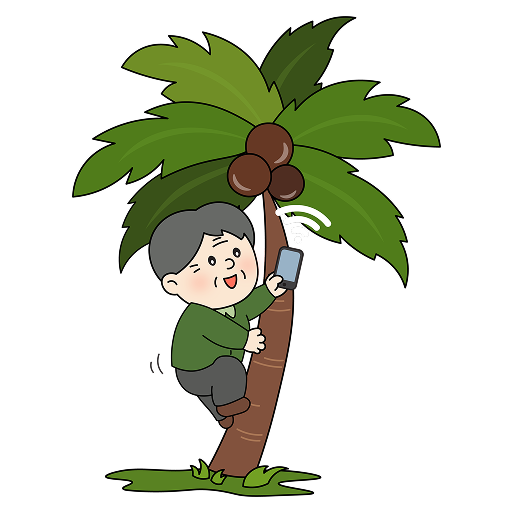
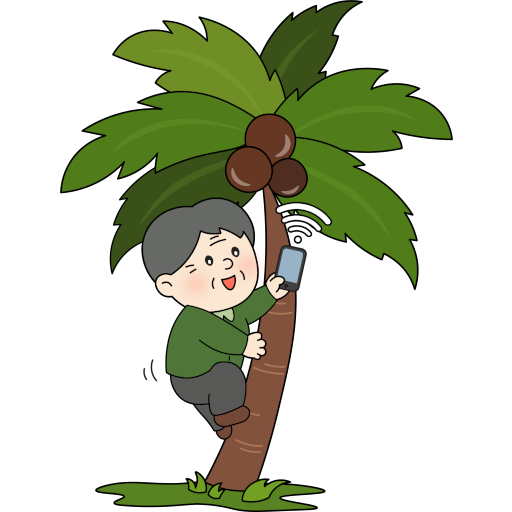
docs: update changelog and user stories for US-E9-13 art refresh in progress; adjust Sprint 10 references

Changed region(s): [[0.0938, 0.0, 0.9062, 1.0]]

diff --git a/docs/agile/user-stories/US-E9-13.md b/docs/agile/user-stories/US-E9-13.md
@@ -1,0 +1,57 @@
+# User Story: US-E9-13 - อัปเดต art ตัวละคร popup อินเทอร์เน็ตหายไปแล้ว
+
+**Status:** 🔵 In Progress (Sprint 10, เริ่ม 2026-07-17 — art กำลังเปลี่ยน)
+**Epic:** [E9: Field Feedback Hotfixes](../01-product-backlog.md)
+**Owner:** [Developer/AI]
+**Source:** Owner request (2026-07-17) — ต่อยอด [US-E7-27](US-E7-27.md)
+**Priority:** 🟠 P1 — UX polish (Sprint 10)
+**Target version:** TBD (bump ตอน ship)
+
+> **ขอบเขต:** เปลี่ยนไฟล์ art ตัวละคร offline popup (`*_internet_loss.png`) ให้เป็นชุดใหม่ — logic popup / `InternetManager` / SW precache จาก US-E7-27 **ไม่เปลี่ยน** ยกเว้นถ้าต้อง bump `CACHE_VERSION` ใน `sw.js` เพื่อบังคับดึงรูปใหม่
+
+---
+
+## 📖 Description
+**ในฐานะ** ผู้เล่นสูงอายุที่เห็น popup "อินเทอร์เน็ตหายไปแล้ว"
+**ฉันต้องการ** ให้ตัวละครคุณตา/คุณยาย (ปีนต้นมะพร้าวหาสัญญาณ) **เป็น art ชุดใหม่ที่อัปเดตแล้ว**
+**เพื่อให้** ภาพสื่อสารชัดและตรงกับชุด character art ปัจจุบัน
+
+---
+
+## 🐛 Problem
+- Art เดิมใน [US-E7-27](US-E7-27.md) (`OldWoman_internet_loss.png` / `OldMan_internet_loss.png`) **กำลังถูกเปลี่ยน** เป็นชุดใหม่
+- ต้อง sync ไฟล์ใน repo + ให้ offline buffer / SW แสดงรูปใหม่ได้หลัง deploy
+
+---
+
+## ✅ Acceptance Criteria
+1. [ ] ไฟล์ art ใหม่แทนที่:
+   - `public/assets/common/character/female/OldWoman_internet_loss.png`
+   - `public/assets/common/character/man/OldMan_internet_loss.png`
+2. [ ] Popup ออฟไลน์แสดงตัวละครตามเพศได้ถูกต้องจาก art ใหม่ (ออนไลน์ + ออฟไลน์ — data URL buffer)
+3. [ ] Service worker / cache ไม่ยึดรูปเก่าค้าง (bump `CACHE_VERSION` ใน `public/sw.js` ถ้าจำเป็น)
+4. [ ] ตำแหน่ง/ขนาดตัวละครใน `.gh-popup--offline` ยังอ่านง่ายบนมือถือ
+5. [ ] Owner ยืนยันบนเครื่องจริง
+
+---
+
+## 🛠 Technical Tasks
+- [ ] **แทนที่ art assets** `OldWoman_internet_loss.png` / `OldMan_internet_loss.png` ด้วยไฟล์ชุดใหม่ *(กำลังทำ)*
+- [ ] ตรวจว่า `offline-popup.js` / `preloadOfflineArt()` ยังโหลด path เดิมได้
+- [ ] Bump `CACHE_VERSION` ใน `public/sw.js` (ถ้า SW precache ยังเสิร์ฟรูปเก่า)
+- [ ] ทดสอบ DevTools offline — popup ขึ้น + รูปใหม่โชว์ทั้งคุณตา/คุณยาย
+- [ ] Owner verify บนมือถือจริง
+
+---
+
+## 🔗 Related Files
+- Art: `public/assets/common/character/female/OldWoman_internet_loss.png`
+- Art: `public/assets/common/character/man/OldMan_internet_loss.png`
+- Popup: `src/ui/offline-popup.js`
+- SW: `public/sw.js`
+- Prior: [US-E7-27](US-E7-27.md)
+- Backlog: [01-product-backlog](../01-product-backlog.md)
+- Sprint: [Sprint 10](../sprint-backlogs/sprint-10.md)
+
+---
+Back to Product Backlog: [Product Backlog](../01-product-backlog.md) | Back to Index: [Index](../../index.md)

diff --git a/docs/agile/user-stories/US-E7-27.md b/docs/agile/user-stories/US-E7-27.md
@@ -43,7 +43,7 @@
 - [x] **buffer art เป็น data URL ในหน่วยความจำตอนออนไลน์** (`preloadOfflineArt()` ใน `offline-popup.js` — fetch→blob→FileReader→dataURL, cache ด้วย `Map`) แล้ว render จาก data URL ตอนออฟไลน์ (ไม่ต้องใช้เน็ตเลย) — `InternetManager.bufferArt()` เรียกตอน `setGender`/`refreshGender`/reconnect วิธีนี้แก้ปัญหารูปไม่ขึ้นได้จริง (SW HTTP cache ไม่น่าเชื่อถือ — คืน 503)
 - [x] (safety net) precache art offline popup ใน service worker (`public/sw.js`, `CACHE_VERSION v2`): cache fallback เมื่อ network fail + precache `*_internet_loss.png`/`*_profile.png`
 - [~] (deferred) ดักความล้มเหลวจากเครือข่ายในชั้นข้อมูล (`src/core/database.js` — Supabase/RPC fetch error) — รอดีไซน์ popup error ก่อน
-- [x] art ตัวละคร (คุณตา/คุณยาย) มีแล้ว: `OldWoman_internet_loss.png` / `OldMan_internet_loss.png` (fallback: `*_profile.png`)
+- [x] art ตัวละคร (คุณตา/คุณยาย) มีแล้ว: `OldWoman_internet_loss.png` / `OldMan_internet_loss.png` (fallback: `*_profile.png`) — *ชุดใหม่กำลังอัปเดตใน [US-E9-13](US-E9-13.md)*
 - [x] จัดตำแหน่งตัวละครให้ชิดด้านบนของ panel ตามดีไซน์ (`.gh-popup--offline .gh-frame-popup-panel__body { align-content: start; }`)
 - [~] ตรวจว่า flow เดิม (toast/retry ของ US-E7-18) ไม่ตีกันกับ popup นี้ — popup นี้ singleton-guard + auto-dismiss แล้ว (toast = ชั่วคราวเล็ก, popup นี้ = บล็อกเมื่อออฟไลน์จริง)
 - [x] ทดสอบ: ปิดเน็ต (DevTools offline) ระหว่างใช้งาน — popup ขึ้น + รูปคุณตา/คุณยายแสดงถูกต้อง — owner ยืนยันแล้ว
@@ -55,6 +55,7 @@
 - Wiring: `src/main.js` (`internetManager.configure({ onReconnect })`, `.start()`, `setGender(patientGender)`)
 - Offline caching: `public/sw.js` (precache offline art + cache fallback on network failure)
 - Art: `public/assets/common/character/{man/OldMan,female/OldWoman}_internet_loss.png`
+- Follow-up art refresh: [US-E9-13](US-E9-13.md) (Sprint 10 — กำลังเปลี่ยนไฟล์ art)
 - Popup base: `src/ui/components/frame-popup.js`, `src/ui/transition/popup-transition.js`, `public/components.css` (`gh-popup--*`, `--popup-*`)
 - Network/data: `src/core/database.js`, `src/main.js`
 - Toast (เทียบเคียง): [US-E7-18](US-E7-18.md) (`src/ui/components/toast.js`)

diff --git a/docs/index.md b/docs/index.md
@@ -22,7 +22,7 @@ MCI Cognitive Games is currently a Phaser 3 + Vite browser application with DOM-
 - **Deployment note:** Test VM and nginx builds must use a branch that includes the leaderboard rewrite fix; older staging builds may still contain stale `topObserver` code.
 
 ### Latest Sprint Planning
-- **[Sprint 10 — Field Feedback carry-over](agile/sprint-backlogs/sprint-10.md) — Active (2026-07-17 → 2026-07-30):** [US-E9-05](agile/user-stories/US-E9-05.md) ✅ Done; [US-E9-07](agile/user-stories/US-E9-07.md) / [US-E9-09](agile/user-stories/US-E9-09.md) Backlog
+- **[Sprint 10 — Field Feedback carry-over](agile/sprint-backlogs/sprint-10.md) — Active (2026-07-17 → 2026-07-30):** [US-E9-13](agile/user-stories/US-E9-13.md) In Progress (internet-loss art); [US-E9-05](agile/user-stories/US-E9-05.md) ✅ Done; [US-E9-07](agile/user-stories/US-E9-07.md) / [US-E9-09](agile/user-stories/US-E9-09.md) Backlog
 - **[Sprint 9 — Field Feedback Hotfix](agile/sprint-backlogs/sprint-09.md) — Completed:** P0 gameplay US-E9-01..04 + device/hub/UX — จาก [Meeting 2026-07-10](agile/meeting-backlogs/2026-07-10.md)
 - **[US-E8-01](agile/user-stories/US-E8-01.md) — ต้นคิดดีหลายชนิดต่อผู้เล่น:** ✅ Done (v1.1.0) — `tree_type` a/b/c/d + lazy backfill
 
@@ -54,7 +54,7 @@ MCI Cognitive Games is currently a Phaser 3 + Vite browser application with DOM-
 - [Kanban Board](agile/kanban.md) - สถานะงานปัจจุบัน
 - [01. Product Backlog](agile/01-product-backlog.md) - รายการฟีเจอร์และ User Stories ทั้งหมด
 - [02. Sprint Roadmap](agile/02-sprint-planning.md) - แผนการดำเนินงานภาพรวมและรายละเอียด Sprint ปัจจุบัน
-- [Sprint 10 Backlog](agile/sprint-backlogs/sprint-10.md) - **Sprint ปัจจุบัน** (US-E9-05 ✅ Done; US-E9-07/09 Backlog)
+- [Sprint 10 Backlog](agile/sprint-backlogs/sprint-10.md) - **Sprint ปัจจุบัน** (US-E9-13 In Progress; US-E9-05 ✅ Done; US-E9-07/09 Backlog)
 - [Sprint 09 Backlog](agile/sprint-backlogs/sprint-09.md) - Completed (Field Feedback Hotfix)
 - [03. Meeting Logs](agile/03-meeting-backlogs.md) - บันทึกการประชุมของทีม
 - [04. Sprint Retrospectives](agile/04-retrospectives-backlog.md) - บันทึกสรุปบทเรียนและแนวทางการปรับปรุงในแต่ละ Sprint

diff --git a/docs/agile/sprint-backlogs/sprint-10.md b/docs/agile/sprint-backlogs/sprint-10.md
@@ -18,6 +18,8 @@ gantt
     Full data export (US-E9-05)      :done, t5, 2026-07-17, 1d
     section P0 — Device perf
     Low-end perf A10s (US-E9-07)     :t7, 2026-07-22, 5d
+    section P1 — Offline art
+    Internet-loss art refresh (US-E9-13) :active, t13, 2026-07-17, 2d
     section P1 — A11y
     System font scale (US-E9-09)     :t9, 2026-07-24, 4d
     section QA
@@ -27,6 +29,11 @@ gantt
 ---
 
 ## 📋 Committed Stories & Tasks
+
+### 🔵 In Progress
+| ID | Story / Task | Priority | สถานะ |
+|----|--------------|----------|--------|
+| [US-E9-13](../user-stories/US-E9-13.md) | อัปเดต art popup อินเทอร์เน็ตหาย — `*_internet_loss.png` | P1 | 🔵 In Progress (art กำลังเปลี่ยน) |
 
 ### ✅ Shipped ใน Sprint 10
 | ID | Story / Task | Priority | สถานะ |
@@ -39,6 +46,7 @@ gantt
 | [US-E9-07](../user-stories/US-E9-07.md) | Optimize สเปคต่ำ — เอฟเฟคเก่งมาก + Phaser (Galaxy A10s) | P0 | 📋 Backlog *(sparkle slice ✅ v1.1.5; confetti + Phaser ค้าง)* |
 | [US-E9-09](../user-stories/US-E9-09.md) | Layout ทนต่อการขยายฟอนต์ระบบ (System Font Scale) | P1 | 📋 Backlog |
 
+> **2026-07-17:** [US-E9-13](../user-stories/US-E9-13.md) → **In Progress** — อัปเดต `*_internet_loss.png`
 > **2026-07-17:** [US-E9-05](../user-stories/US-E9-05.md) ✅ Done (**v1.1.6**) — full data export
 > **2026-07-17:** Sprint 10 kickoff
 > **2026-07-15:** US-E9-07 sparkle slice shipped ใน **v1.1.5** — remainder ค้าง Backlog
@@ -54,12 +62,12 @@ gantt
 - [Sprint 09](sprint-09.md) ✅ **Completed** (2026-07-17) — P0 gameplay [US-E9-01](../user-stories/US-E9-01.md)..[US-E9-04](../user-stories/US-E9-04.md) Done
 - [US-E9-10](../user-stories/US-E9-10.md) ✅ Done ใน Sprint 09 (CLI, ไม่ bump version)
 - **Current shipped:** `1.1.6` (US-E9-05 full data export)
-- **Focus ถัดไป:** US-E9-07 / US-E9-09
+- **Focus รอบนี้:** US-E9-13 (internet-loss art); ถัดไป US-E9-07 / US-E9-09
 
 ---
 
 ## 📊 Sprint Summary
-- **งานที่ commit:** US-E9-05 ✅ Done; US-E9-07/09 Backlog
+- **งานที่ commit:** US-E9-13 In Progress; US-E9-05 ✅ Done; US-E9-07/09 Backlog
 - **สถานะ:** 🟢 **Sprint 10 Open** (US-E9-05 shipped 2026-07-17)
 
 ---

diff --git a/docs/agile/01-product-backlog.md b/docs/agile/01-product-backlog.md
@@ -2,7 +2,7 @@
 
 ---
 
-**Last Updated:** 2026-07-17 | **Release:** [v1.1.6](../changelog.md) — Current | **Current Sprint:** [Sprint 10](./sprint-backlogs/sprint-10.md) (US-E9-05 ✅ Done v1.1.6; US-E9-07/09 Backlog)
+**Last Updated:** 2026-07-17 | **Release:** [v1.1.6](../changelog.md) — Current | **Current Sprint:** [Sprint 10](./sprint-backlogs/sprint-10.md) (US-E9-13 In Progress; US-E9-05 Done; US-E9-07/09 Backlog)
 
 ## 🎯 Product Vision
 
@@ -176,7 +176,8 @@
 | [US-E9-07](./user-stories/US-E9-07.md) | Optimize สเปคต่ำ — เอฟเฟคเก่งมาก + Phaser (Galaxy A10s baseline)                                 | High     | 📋 Backlog                 |
 | [US-E9-09](./user-stories/US-E9-09.md) | Layout ทนต่อการขยายฟอนต์ระบบ (System Font Scale)                                                 | Med      | 📋 Backlog                 |
 
-> ⤷ **Current Sprint:** [Sprint 10](./sprint-backlogs/sprint-10.md) — [US-E9-05](./user-stories/US-E9-05.md) ✅ Done; remaining [US-E9-07](./user-stories/US-E9-07.md), [US-E9-09](./user-stories/US-E9-09.md)
+> ⤷ **Current Sprint:** [Sprint 10](./sprint-backlogs/sprint-10.md) — [US-E9-13](./user-stories/US-E9-13.md) 🔵 In Progress (internet-loss art); [US-E9-05](./user-stories/US-E9-05.md) ✅ Done; [US-E9-07](./user-stories/US-E9-07.md)/[US-E9-09](./user-stories/US-E9-09.md) Backlog
+> ⤷ US-E9-13 ต่อยอด [US-E7-27](./user-stories/US-E7-27.md) — เปลี่ยน `OldWoman_internet_loss.png` / `OldMan_internet_loss.png`
 > ⤷ [US-E9-07](./user-stories/US-E9-07.md) sparkle slice shipped **v1.1.5**; confetti + Phaser remainder ค้าง Backlog
 > ⤷ Epic ยังเป็น E9 (Field Feedback); แยกตารางตาม sprint เพื่อติดตามงานที่ carry-over
 > ⤷ US-E8-01 → [Sprint 08](./sprint-backlogs/sprint-08.md); US-E7-* → [Sprint 07](./sprint-backlogs/sprint-07.md)

diff --git a/docs/changelog.md b/docs/changelog.md
@@ -58,6 +58,13 @@ The `package.json` previously held an arbitrary `1.4.0` that never corresponded 
 
 > The dates and groupings are reconstructed from git history and are approximate; only `0.10.0` onward is tracked prospectively. **`1.0.0`** is the first formally declared stable release.
 
+## [2026-07-17] - US-E9-13 In Progress — internet-loss art refresh (docs)
+**Docs-only** — no `package.json` bump (ยัง `1.1.6`).
+
+### Changed
+- เพิ่ม [US-E9-13](agile/user-stories/US-E9-13.md) → **🔵 In Progress** — อัปเดต `OldWoman_internet_loss.png` / `OldMan_internet_loss.png` (ต่อยอด US-E7-27)
+- Product backlog (Sprint 10), kanban, sprint-10, US-E7-27 cross-ref
+
 ## [1.1.6] - 2026-07-17
 **Version bump:** `1.1.5 → 1.1.6` (**PATCH**) — US-E9-05 full player data export so admin/research can pull a complete player dataset without loss.
 

diff --git a/docs/agile/kanban.md b/docs/agile/kanban.md
@@ -9,6 +9,7 @@ kanban-plugin: board
 - [ ] [US-E9-09](user-stories/US-E9-09.md) 🟠 Layout ทนฟอนต์ระบบขยายใหญ่ → Sprint 10
 
 ## 🔵 In Progress (WIP Limit: 3)
+- [ ] [US-E9-13](user-stories/US-E9-13.md) 🟠 อัปเดต art popup อินเทอร์เน็ตหาย — `*_internet_loss.png` (Sprint 10)
 - [ ] [TD-DB-01](user-stories/TD-DB-01.md) Database Normalization & Column Renaming
 
 
